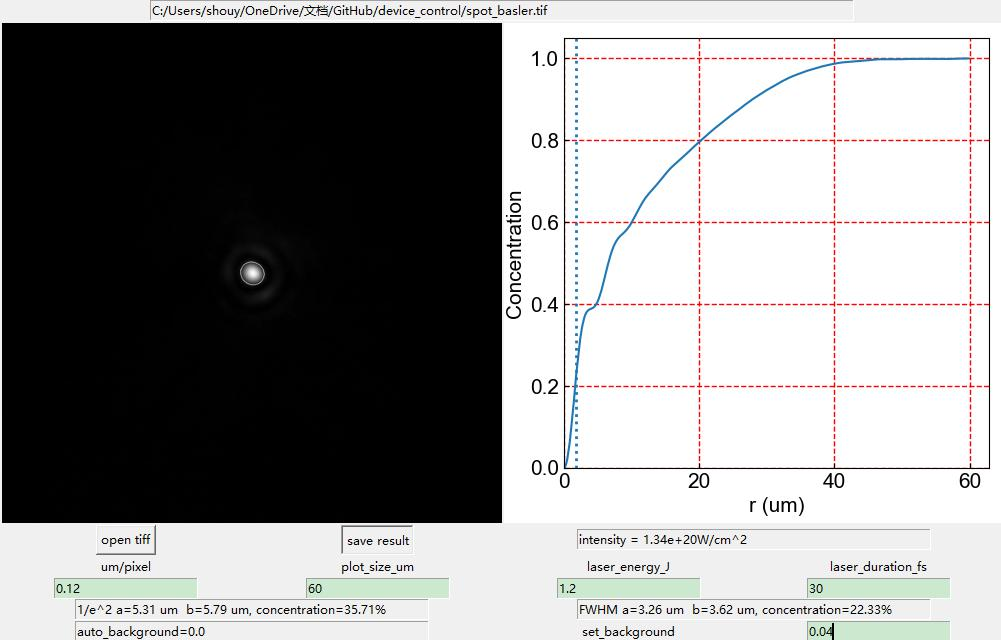
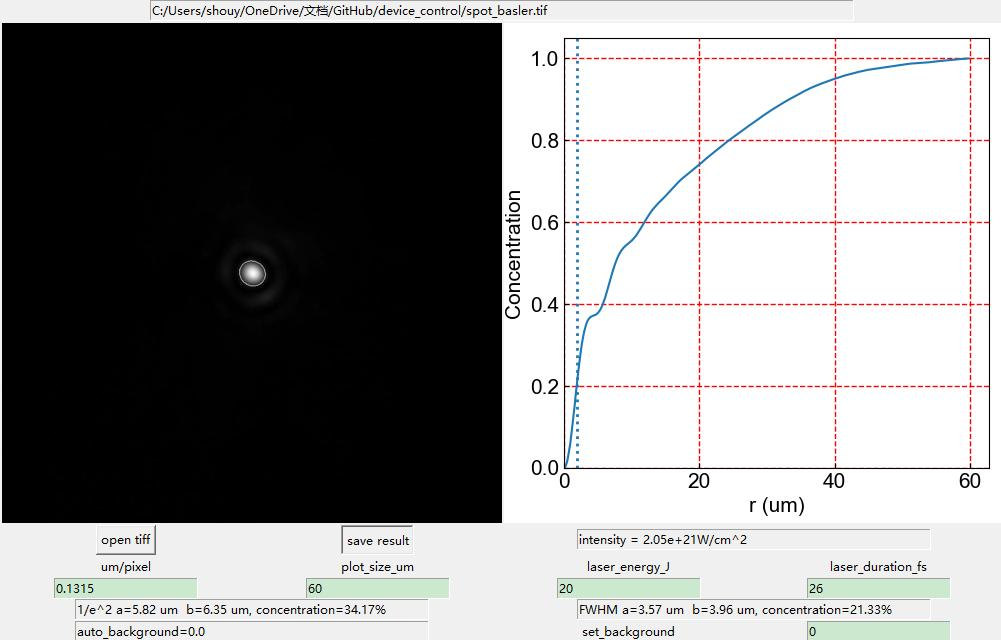
add result save

diff --git a/laser_spot_GUI.py b/laser_spot_GUI.py
@@ -44,7 +44,10 @@ def CaptureScreen():
     y1=y0+640
     im=ImageGrab.grab((x0,y0,x1,y1))
     im.save(path_[0:-4]+'.jpg','jpeg')
-    
+    np.savetxt(path_[0:-4]+'.txt',(x,y),header='first line x in unit um, second line concentration',fmt='%.4f')
+    with open("result.txt", "ab") as f:
+        np.savetxt(f, resout.T,fmt='%.3e', header=path_+', 1/e^2 a,'+' b,'+' FWHM a,'+' b,'+' sqrt(ab),'+' concentration,'+' intensity',newline='  ', footer='\n',comments='')
+        
 # you can use other keys and replace it with "<Return>". EX: "f"
 # by default, this function will pass an unknown argument to your function.
 # thus, you have to give your function a parameter; in this case, we will use *args
@@ -61,6 +64,10 @@ def refresh(*args):
     background = np.float64(background)
     img_open = Image.open(path_)
     image = np.array(img_open)
+    maxpixel = inputa.get()
+    maxpixel = np.float64(maxpixel)
+    minpixel = inputb.get()
+    minpixel = np.float64(minpixel)
     # convert to unit8
     tracking = image/np.max(image)*255
     tracking = tracking.astype(np.uint8)
@@ -69,7 +76,8 @@ def refresh(*args):
     gmx = 253
     #apply thresholding to grayscale frames. 
     ret, thresh = cv2.threshold(tracking, gmn, gmx, 0)
-    
+    global resout
+    resout = np.zeros(7)
     # find contours in the threshold image
     contours,hierarchy = cv2.findContours(thresh,cv2.RETR_LIST,cv2.CHAIN_APPROX_TC89_L1)
     
@@ -139,12 +147,16 @@ def refresh(*args):
     cone2 = (sum0-sum1)/(sum0-sumr[-1]) 
     # img = ImageTk.PhotoImage(img_open.resize((500,500)))
     # spot1 = np.resize(spot1,(500,500))
-    img = Image.fromarray(spot1)
+    spot1[spot1>maxpixel] = maxpixel
+    spot1[spot1<minpixel] = minpixel
+    spot1 = (spot1-minpixel)/(np.max(spot1)-minpixel)*255
+    img = Image.fromarray(np.uint8(spot1), mode="L")
     img = img.resize((500,500))
     img = ImageTk.PhotoImage(img)
     lableShowImage1.config(image=img)
     lableShowImage1.image = img
-    out1.set('1/e^2 a='+str(np.round(a*num,2))+' um  b='+str(np.round(b*num,2)) + ' um,'+' concentration='+str(np.round(cone2*100,2))+'%')
+    out1.set('1/e^2 a='+str(np.round(a*num,2))+' b='+str(np.round(b*num,2)) + ' '+'√ab='+str(np.round(np.sqrt(a*b)*num,2)) + ' um,'+' concentration='+str(np.round(cone2*100,2))+'%')
+    resout[0:2]=[a*num,b*num]
 
     tracking3 = image/np.max(image[xc-5:xc+5,yc-5:yc+5])*255
     tracking3 = tracking3.astype(np.uint8)
@@ -174,10 +186,11 @@ def refresh(*args):
     cv2.ellipse(spot0,ellipse,(0,0,0),-1)
     sum1 = np.sum(spot0[xc-rmax:xc+rmax,yc-rmax:yc+rmax])
     confwhm = (sum0-sum1)/(sum0-sumr[-1]) 
-    out2.set('FWHM a='+str(np.round(a*num,2))+' um  b='+str(np.round(b*num,2)) + ' um,'+' concentration='+str(np.round(confwhm*100,2))+'%')
+    out2.set('FWHM a='+str(np.round(a*num,2))+' b='+str(np.round(b*num,2)) + ' '+'√ab='+str(np.round(np.sqrt(a*b)*num,2)) + ' um,'+' concentration='+str(np.round(confwhm*100,2))+'%')
     intensity = 4*np.log(2)*laser_energy/np.pi/laser_t*1e15/a/b/num/num*1e8*confwhm/0.5
     out3.set('intensity = ' + str(format(intensity, '.2e')) + 'W/cm^2')
-
+    resout[2:7]=[a*num,b*num,np.sqrt(a*b)*num,confwhm,intensity]
+    
     global x ,y
     x = r*num
     y = con
@@ -204,59 +217,71 @@ if __name__ == '__main__':
     #Entry widget which allows displaying simple text.
     path = tk.StringVar()
     entry = tk.Entry(app, state='readonly', text=path,width = 100)
-    entry.grid(columnspan=4)
+    entry.grid(columnspan=6)
     lableShowImage1 = tk.Label(app)
-    lableShowImage1.grid(row=1,column=0,columnspan=2)
+    lableShowImage1.grid(row=1,column=0,columnspan=3)
     canvas = FigureCanvasTkAgg(f,master=app)
     canvas.draw()
-    canvas.get_tk_widget().grid(row=1,column=2,columnspan=2)
-    buttonSelImage = tk.Button(app, text='open tiff', command=choosepic)
+    canvas.get_tk_widget().grid(row=1,column=3,columnspan=3)
+    buttonSelImage = tk.Button(app, text='open tiff image', command=choosepic)
     buttonSelImage.grid(row=2,column=0)
-    buttonCapture = tk.Button(app, text='save result', command=CaptureScreen)
-    buttonCapture.grid(row=2,column=1)
+    buttonCapture = tk.Button(app, text='save the result', command=CaptureScreen)
+    buttonCapture.grid(row=2,column=5)
     #buttonSelImage.pack(side=tk.BOTTOM)
     #Call the mainloop of Tk.
-    label1 = tk.Label(app, text="um/pixel")
+    label1 = tk.Label(app, text="calibration um/pixel")
     label1.grid(row=3,column=0)
     input1 = tk.StringVar(value = '0.1315')
     entry1 = tk.Entry(app,text = input1)
     entry1.bind('<Return>',refresh)
-    entry1.grid(row=4,column=0)
+    entry1.grid(row=3,column=1)
     out1 = tk.StringVar()
-    entry2 = tk.Entry(app, state='readonly', text=out1,width = 50)
-    entry2.grid(row=5,column=0,columnspan=2)
+    entry2 = tk.Entry(app, state='readonly', text=out1,width = 60)
+    entry2.grid(row=5,column=0,columnspan=4)
+    labela = tk.Label(app, text="                          Max pixel",anchor='e')
+    labela.grid(row=2,column=3)
+    inputa = tk.StringVar(value = '200')
+    entrya = tk.Entry(app,text = inputa)
+    entrya.bind('<Return>',refresh)
+    entrya.grid(row=2,column=4)
+    labelb = tk.Label(app, text="                          Min pixel",anchor='e')
+    labelb.grid(row=2,column=1)
+    inputb = tk.StringVar(value = '0')
+    entryb = tk.Entry(app,text = inputb)
+    entryb.bind('<Return>',refresh)   
+    entryb.grid(row=2,column=2)
     input2 = tk.StringVar(value = '60')
     entry3 = tk.Entry(app,text = input2)
     entry3.bind('<Return>',refresh)
-    entry3.grid(row=4,column=1)
+    entry3.grid(row=3,column=3)
     label2 = tk.Label(app, text="plot_size_um")
-    label2.grid(row=3,column=1)
+    label2.grid(row=3,column=2)
     out2 = tk.StringVar()
-    entry4 = tk.Entry(app, state='readonly', text=out2,width = 50)
-    entry4.grid(row=5,column=2,columnspan=2)
+    entry4 = tk.Entry(app, state='readonly', text=out2,width = 60)
+    entry4.grid(row=6,column=0,columnspan=4)
     input3 = tk.StringVar(value = '20')
     entry5 = tk.Entry(app,text = input3)
     entry5.bind('<Return>',refresh)
-    entry5.grid(row=4,column=2)
+    entry5.grid(row=4,column=4)
     label3 = tk.Label(app, text="laser_energy_J")
-    label3.grid(row=3,column=2)
+    label3.grid(row=3,column=4)
     input4 = tk.StringVar(value = '26')
     entry6 = tk.Entry(app,text = input4)
     entry6.bind('<Return>',refresh)
-    entry6.grid(row=4,column=3)
+    entry6.grid(row=4,column=5)
     label4 = tk.Label(app, text="laser_duration_fs")
-    label4.grid(row=3,column=3)
+    label4.grid(row=3,column=5)
     out3 = tk.StringVar()
-    entry7 = tk.Entry(app, state='readonly', text=out3,width = 50)
-    entry7.grid(row=2,column=2,columnspan=2)
+    entry7 = tk.Entry(app, state='readonly', text=out3,width = 30,font=("Arial 12"))
+    entry7.grid(row=5,column=4,columnspan=2,rowspan=2)
     input5 = tk.StringVar(value = '0')
     entry8 = tk.Entry(app,text = input5)
     entry8.bind('<Return>',refresh)
-    entry8.grid(row=6,column=3)
+    entry8.grid(row=4,column=3)
     label4 = tk.Label(app, text="set_background")
-    label4.grid(row=6,column=2)
+    label4.grid(row=4,column=2)
     out4 = tk.StringVar()
-    entry9 = tk.Entry(app, state='readonly', text=out4,width = 50)
-    entry9.grid(row=6,column=0,columnspan=2)
+    entry9 = tk.Entry(app, state='readonly', text=out4,width = 30)
+    entry9.grid(row=4,column=0,columnspan=2)
     app.mainloop()
     
